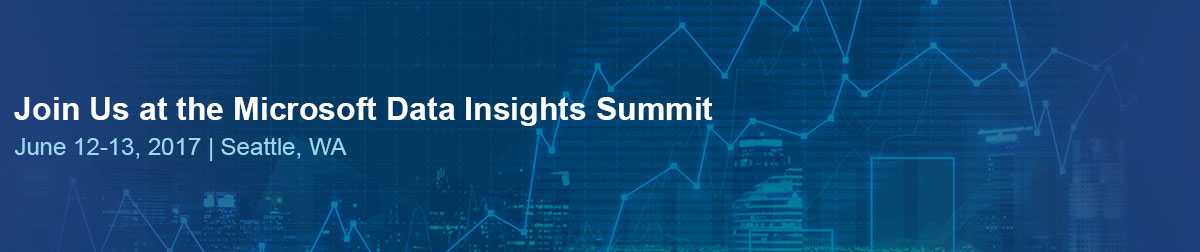
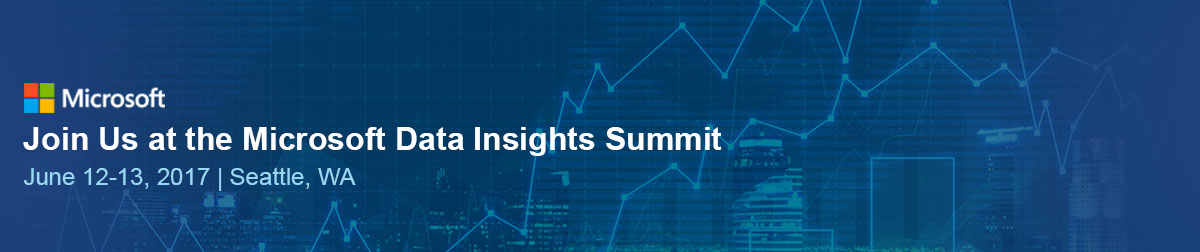
08Jun2017-V1

Changed region(s): [[0.0, 0.3333, 0.6167, 0.6389], [0.0, 0.6667, 0.3083, 0.75]]

diff --git a/MicrosoftDataInsights2017.html b/MicrosoftDataInsights2017.html
@@ -85,7 +85,8 @@
 </div>
 <div class="container-fluid no-gutter-container" style="float:center; text-align: center; background: #1e407b no-repeat; margin:0 auto"> <img src="img/banners/LH-MS-Banner2.jpg" class="img-responsive" align="center" style="margin:0 auto; float:center"/> </div>
 <style type="text/css">
-  .campaignbg1:before{background: url(img/background01.png) no-repeat; background-size: cover; height: 31.313em; width: 27.9em; content: ''; z-index: -1; position: absolute; top: 0px; bottom: 0; left: 0;}
+		h3 {font-family: "Lato-Black", Arial, Gotham, Helvetica Neue, Helvetica; color: #1c427c; font-size: 1.714em;margin-bottom: 30px; margin-left: 15px; text-transform: uppercase;}	
+  .campaignbg1:before{background: url(img/background01.png) no-repeat; background-size: cover; height: 37.313em; width: 27.9em; content: ''; z-index: -1; position: absolute; top: 0px; bottom: 0; left: 0;}
   .about-lhmicrosoft-event .event-description{margin-bottom: 150px}
   .intro-page p{padding-right: 0px}
   .lhmicrosoft-campaign .event-title{color: #faa635}
@@ -94,17 +95,19 @@
   .request-meeting .form-group .form-control{border-radius: 0px;}
   .join-community-theatre{margin-top: 90px; background: #f2f2f2; position: relative;}
   .request-meeting button.btn{background: #faa635;border-radius: 0px;border:0px; color: #fff; }
-  .join-community-theatre:before{height: 100%; position: absolute; content: ""; background: #fff; width: 17%; right: 0;}
   .join-community-theatre-wrap{padding: 50px 0 60px;}
   .join-community-theatre-title{ margin: 0; padding: 16px; background: #faa635; color: #fff; position: absolute; z-index: 1; top: -75px; height: 48px; line-height: 20px; font-family: 'Lato-Regular', Arial, Gotham, Helvetica Neue, Helvetica; font-size: 1.65em; width: 100%; }
   .swag-prize-wheel{margin-top: 30px}
   .swag-prize-wheel-inner{position: relative;margin-top: 50px;padding: 20px; border: 1px solid #f2f2f2}
   .swag-prize-wheel-inner h2{margin:0px;}
   .swag-prize-wheel-inner:before{background: url(img/approach-before-img.png) no-repeat; content: ''; display: block; height: 8em; width: 8em; position: absolute; z-index: 1; background-size: contain;left: -10px; top:-10px;}
-  .swag-prize-wheel-inner:after{background: url(img/mission-after-img.png) no-repeat;
-    bottom: -11px; content: ''; display: block; height: 8em; width: 8em; right:-28px; position: absolute; z-index: 1; background-size: contain;}
+  .swag-prize-wheel-inner:after{background: url(img/mission-after-img.png) no-repeat; bottom: -11px; content: ''; display: block; height: 8em; width: 8em; right:-28px; position: absolute; z-index: 1; background-size: contain;}
   .swag-prize-wheel h2{font-family: 'Lato-Black', Arial, Gotham, Helvetica Neue, Helvetica; font-size: 1.714em; color: #179bd7; }
   .swag-prize-wheel p span{font-family: 'Lato-Black', Arial, Gotham, Helvetica Neue, Helvetica; color: #179bd7; }
+	.learnmore{margin-top:60px; background: #f2f2f2; min-height:260px}
+.learnmore:before{background: url(img/ss-before-img.png) no-repeat; content: ''; display: block; height: 8em; width: 8em; position: absolute; z-index: 1; background-size: contain;left: -10px; top:-10px;}
+	.learnmore::after{background: url(img/ss-after-img.png) no-repeat; bottom: -35px; content: ''; display: block; height: 8em; width: 8em; right:-10px; position: absolute; z-index: 1; background-size: contain;}
+	
   @media (max-width: 768px) {
     .campaignbg1:before{background: #179bd7; width: 100%; }
     .about-lhmicrosoft-event .event-description{margin-bottom: 50px}
@@ -114,51 +117,46 @@
     .join-community-theatre-title{position: relative;height: auto;line-height: 32px;top:0;}
     .join-community-theatre-wrap a:hover{text-decoration: none }
     .swag-prize-wheel-inner::after{top: none; bottom: -10px; right: -32px}
+	  .learnmore{margin-top:60px; background: #f2f2f2; min-height:200px; padding:20px 20px}
+.learnmore:before{background: url(img/ss-before-img.png) no-repeat; content: ''; display: block; height: 8em; width: 8em; position: absolute; z-index: 1; background-size: contain;left: 0px; top:-10px;}
+	.learnmore::after{background: url(img/ss-after-img.png) no-repeat; bottom: -35px; content: ''; display: block; height: 8em; width: 8em; right:10px; position: absolute; z-index: 1; background-size: contain;}
+	
+	
   }
 </style>
 <section class="about-lhmicrosoft-event">
   <div class="container">
     <div class="row" >
       <div class="col-xs-12 col-sm-12 col-md-7" style="margin-top:20px">
-        <div class="event-description" style="">
+        <div class="event-description" style=""> 
           <!--<h2 class="event-title">Simplify and optimize your data assets for more actionable insights</h2>-->
           <div class="intro-page ">
             <p>Data is more than information. It’s a catalyst for big ideas, bold decisions, and brave leaps. We activate your data, giving you the confidence to make insights-driven decisions and gain a competitive edge.</p>
-            <p>For more than 10 years, LiquidHub has been empowering knowledge across the global Microsoft ecosystem.  Microsoft Product Groups, Sales & Marketing, IT, and Finance choose LiquidHub’s data and analytics services to deliver real ROI. </p>
+            <p>For more than 10 years, LiquidHub has been empowering knowledge across the global Microsoft ecosystem.  Microsoft Product Groups, Sales & Marketing, IT, and Finance choose LiquidHub’s Data and Analytics services to deliver real ROI. </p>
             <p>As a Microsoft Gold Partner, with experienced in-house Power BI, Cortana Intelligence Suite, Office 365, SQL and Azure certified professionals, we can uniquely enable you to maximize return from your enterprise data, be it with cloud, hybrid or on-premise scenarios, </p>
+           
           </div>
         </div>
       </div>
       <div class="col-xs-12 col-sm-12 col-md-4 col-md-offset-1" style="margin-top:20px; padding-left:15px;">
-        <div class="campaignbg1 lhmicrosoft-campaign">          
+        <div class="campaignbg1 lhmicrosoft-campaign">
           <h2 class="event-title">Meet with Us!</h2>
-          <p>We would love to chat with you on the latest trends and developments in data and analytics. Let us know if you are free!</strong></p>           
-            <form class="request-meeting">
-              <div class="form-group">
-                <label for="email">Email address:</label>
-                <input type="email" class="form-control" id="email">
-              </div>
-              <div class="form-group">
-                <label for="pwd">Password:</label>
-                <input type="password" class="form-control" id="pwd">
-              </div>              
-              <button type="submit" class="btn btn-default">Request Meeting</button>
-            </form>
-        </div>        
+          <p>We would love to chat with you on the latest trends and developments in data and analytics. Let us know if you are free!</p>
+          <iframe src="http://engage.liquidhub.com/l/66392/2017-06-08/9w1r6w" width="100%" height="460" type="text/html" frameborder="0" allowTransparency="true" style="border: 0; margin-left:10px; background-blend-mode: exclusion"></iframe>
+        </div>
       </div>
     </div>
-    <hr/>
   </div>
 </section>
 <section class="join-community-theatre">
   <div class="container-fluid join-community-theatre-wrap">
-    <div class="container">   
+    <div class="container">
       <div class="row">
-        <div class="col-xs-12 col-sm-4 col-md-4"></div>
-        <div class="col-xs-12 col-sm-8 col-md-8"> <a href=""> <h2 class="text-center join-community-theatre-title"> Join us at the Community Theatre! </h2> </a> </div>
+        <div class="col-xs-12 col-sm-4 col-md-12"></div>
+        <h3> Join us at the Community Theatre! </h3>
       </div>
-      <div class="row" >
-        <!--<h2 class="event-title" style="padding-left:12px">Join us at the Community Theatre!</h2>-->        
+      <div class="row" > 
+        <!--<h2 class="event-title" style="padding-left:12px">Join us at the Community Theatre!</h2>-->
         <div class="col-xs-12 col-sm-12 col-md-5" style="margin-top:20px">
           <p>Monday, June 12 <br/>
             11:00am - 11:20am</p>
@@ -167,9 +165,8 @@
           <p>In this session, we will share best practices and real world examples of how Power BI and Azure Cloud infrastructure can be used to unlock the promise of the SMART building sector. We will showcase how real-time analytics can fill the information gap to optimize building operations, improve energy efficiency management and provide visibility, control and automation to building systems. </p>
           <a type="button" class="btn" data-toggle="modal" data-target="#myModal1" style="box-shadow:none; padding: 0">
           <div class="btn btn-primary" role="button" style="background:#faa635; margin-top:20px; border:none; border-radius: 0px;" target="_blank"><span style="font-size:18px; margin:20px">Get Presentation <i class="fa fa-chevron-right" aria-hidden="true" style="font-size: 16px"></i> </span> </div>
-          </a> 
-        </div>
-        <div class="col-xs-12 col-sm-12 col-md-6" style="margin-top:20px">
+          </a> </div>
+        <div class="col-xs-12 col-sm-12 col-md-5 col-md-offset-1" style="margin-top:20px">
           <p>Tuesday, June 13 <br/>
             10:00am - 10:20am </p>
           <h4 style="color: #179bd7"><strong>Getting Business Value from Social Media and Unstructured Data – The Power of Power BI</strong></h4>
@@ -177,37 +174,35 @@
           <p>In this presentation, we will share how to leverage social and unstructured data to gain intelligence – identify trends, discover topics and relationships, predict behavior, and get actionable insights across all social media and other online channels. We will explore the winning fusion of social media analytics and Power BI, sharing real world examples, use cases, and lessons learned. </p>
           <a type="button" class="btn" data-toggle="modal" data-target="#myModal" style="box-shadow:none; padding: 0">
           <div class="btn btn-primary" role="button" style="background:#faa635; margin-top:20px; border:none; border-radius: 0px;" target="_blank"><span style="font-size:18px; margin:20px">Get Presentation <i class="fa fa-chevron-right" aria-hidden="true" style="font-size: 16px"></i> </span> </div>
-          </a> 
-        </div>
+          </a> </div>
       </div>
     </div>
   </div>
 </section>
 <section class="swag-prize-wheel">
-  <div class="container">    
+  <div class="container">
     <div class="row" >
       <div class="col-xs-12 col-sm-12 col-md-8">
         <div class="swag-prize-wheel-inner">
           <div class="row">
-          <div class="col-xs-12 col-sm-12 col-md-7" style="margin-top:20px">
-            <h2>SWAG PRIZE WHEEL</h2>
-            <p style="margin-top: 20px; margin-bottom: 20px">Don’t forget to drop by the <span>SWAG PRIZE WHEEL</span> for your chance to win some LiquidHub goodies! <br/>[Need to include location]</p>
-          </div>
-          <div class="col-xs-12 col-sm-12 col-md-5" style="margin-top:20px">
-            <img src="img/prize-wheel.jpg" class="img-responsive" style="width: 200px; margin: 0 auto;" />    
-          </div>
+            <div class="col-xs-12 col-sm-12 col-md-7" style="margin-top:20px">
+              <h2>SWAG PRIZE WHEEL</h2>
+              <p style="margin-top: 20px; margin-bottom: 20px">Don’t forget to drop by the Microsoft <span>SWAG PRIZE WHEEL</span> in the Expo Hall for your chance to win some LiquidHub goodies! <br/>
+                [Need to include location]</p>
+            </div>
+            <div class="col-xs-12 col-sm-12 col-md-5" style="margin-top:20px"> <img src="img/prize-wheel.jpg" class="img-responsive" style="width: 200px; margin: 0 auto;" /> </div>
           </div>
         </div>
       </div>
-      <div class="col-xs-12 col-sm-12 col-md-3 col-md-offset-1" style="margin-top:60px">
-        <h2>Learn More</h2>
+      <div class="col-xs-12 col-sm-12 col-md-3 col-md-offset-1 learnmore">
+        <h2 style="color:#1e407b">LEARN MORE</h2>
         <ul class="custom-bullet">
-          <li><a href=""> LiquidHub Analytics Services </a></li>    
-          <li><a href="">LiquidHub Data Services </a></li>         
+          <li><a href="http://www.liquidhub.com/services/insights.html" target="_blank"> LiquidHub Analytics Services </a></li>
+          <li><a href="http://www.liquidhub.com/services/data.html" target="_blank">LiquidHub Data Services </a></li>
         </ul>
       </div>
     </div>
-  </div>  
+  </div>
 </section>
 <section>
   <div class="container">
@@ -222,7 +217,7 @@
                 <div class="media-body">
                   <div class="sme-intro">
                     <h5> Dinesh Batra<span> (Managing Director)</span></h5>
-                    <p>Lorem Ipsum is simply dummy text of the printing and typesetting industry. Lorem Ipsum has been the industry's standard dummy text ever since the 1500s, when an unknown printer took a galley of type and scrambled</p>
+                    <p>Dinesh brings over 12 years’ experience in strategic analytics and consulting. As a recognized industry knowledge, he helps clients make valuable insight-driven decisions through advanced analytics, predictive modeling, social media analytics, data mining and IOT analytics. </p>
                   </div>
                 </div>
                 <div class="media-right">
@@ -237,7 +232,7 @@
           </div>
         </div>
       </div>
-  	</div>
+    </div>
     
     <!-- Modal -->
     <div id="contact" class="modal fade" role="dialog">
@@ -250,7 +245,7 @@
             <h4 class="modal-title">ASK THE EXPERT!</h4>
           </div>
           <div class="modal-body">
-            <iframe src="http://engage.liquidhub.com/l/66392/2017-03-13/96rfrn" width="100%" height="460" type="text/html" frameborder="0" allowTransparency="true" style="border: 0"></iframe>
+            <iframe src="http://engage.liquidhub.com/l/66392/2017-06-08/9w1r65" width="100%" height="460" type="text/html" frameborder="0" allowTransparency="true" style="border: 0"></iframe>
           </div>
           <div class="modal-footer">
             <button type="button" class="btn btn-default" data-dismiss="modal">Close</button>
@@ -259,35 +254,6 @@
       </div>
     </div>
   </div>
-  <!--
-  <div class="container">
-  <hr/>
-    <div class="row" >
-      <h2 class="event-title" style="padding-left:12px">Spin the Wheel!</h2>
-      <div class="col-xs-12 col-sm-12 col-md-7" style="margin-top:20px">
-        <p><strong>Don’t forget to drop by the Spin the Wheel for your chance to win some LiquidHub goodies!</strong></p>
-      	<p><strong>Location:</strong><br/>
-      	Lorem Ipsum <br/>
-      	Lorem Ipsum 123</p>
-      	 <div class="industries-twitter-updates-inner" > <a class="twitter-timeline" href="https://twitter.com/LiquidHub" data-height="278">Tweets by LiquidHub</a> <script async src="//platform.twitter.com/widgets.js" charset="utf-8"></script> 
-            </div>
-      	
-      </div>
-      <div class="col-xs-12 col-sm-12 col-md-5" style="margin-top:20px; background:#179bd7">
-        <h4 style="color:#fff"><strong>List of Intresting Blog Posts</strong></h4>
-        <p>	Lorem Ipsum <br/>
-        Lorem Ipsum <br/>
-        Lorem Ipsum <br/>
-        Lorem Ipsum <br/>
-        Lorem Ipsum <br/>
-        Lorem Ipsum <br/>
-        Lorem Ipsum <br/></p>
-       
-     </div>
-    </div>
-	</div>
-    -->
-    
   
   <!-- Modal -->
   <div class="modal fade" id="myModal" role="dialog">

diff --git a/news-events/liquidhub-launches-liquidhealth.html b/news-events/liquidhub-launches-liquidhealth.html
@@ -84,7 +84,7 @@
 		<div class="col-xs-12 col-sm-12 col-md-9" style="margin-top:-20px">
 			<h2 class="event-title">LiquidHub Launches LiquidHealth</h2>
 			<p>
-				Digital health pioneer Eveo joins LiquidHub to form new strategic practice
+				Digital health pioneer <a href="http://www.eveo.com " target="">Eveo</a> joins LiquidHub to form new strategic practice
 			</p>
 			<p> 
 				<strong> PHILADELPHIA – June 01, 2017</strong> – LiquidHub, a customer engagement company, today announced the launch of LiquidHealth, a new practice aimed at re-imagining engagement in healthcare. LiquidHealth will combine strategic, creative and digital services with LiquidHub’s rapidly growing data offering for the specialty pharmaceutical industry, LiquidAnalytics. The practice is poised to offer a fresh approach to health marketers, where innovative thinking is combined with measurement at the prescription and patient level in order to deliver ROI on the deepest, most engaging customer experiences.
